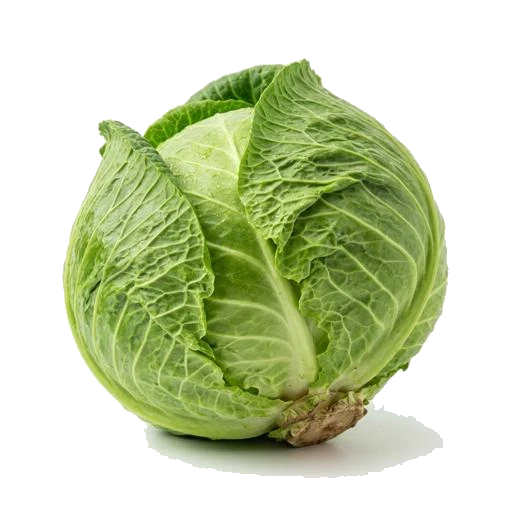
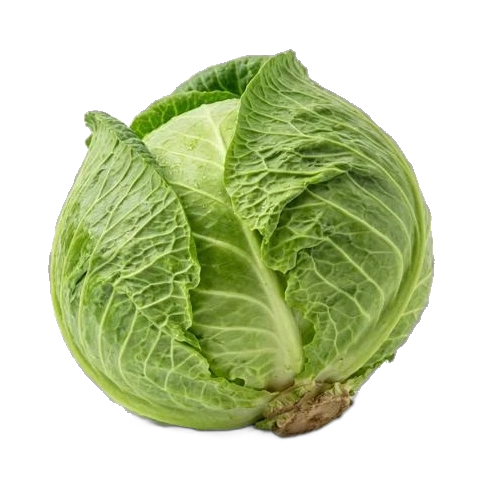
feat: update offerings, menu padding, and product images

Changed region(s): [[0.0932, 0.0915, 0.9006, 0.9451]]

diff --git a/src/pages/OurOfferings.vue b/src/pages/OurOfferings.vue
@@ -318,12 +318,13 @@ import farmGatePattern from "../assets/img/FARMGATE PATTERN _GREEN.webp";
 import okraImg from "../assets/img/okro-new.webp";
 import okra1Img from "../assets/img/ladyfinger-okra.webp";
 import onionImg from "../assets/img/onion.webp";
+import pineappleImg from "../assets/img/pineapple-new.webp";
+import sweetPotatoesImg from "../assets/img/sweet-potatoes.webp";
 import tomatoImg from "../assets/img/tomato.webp";
 import habaneroImg from "../assets/img/habanero-pepper-new.webp";
 import trueHabaneroImg from "../assets/img/true-habanero.webp";
 import chiliImg from "../assets/img/red-chili-pepper-isolated-white-background.webp";
 import gardenEggsImg from "../assets/img/garden-eggs Background Removed.webp";
-import pineappleImg from "../assets/img/pineapple-new.webp";
 import cassavaImg from "../assets/img/cassava-new.webp";
 import tilapiaImg from "../assets/img/tilapia.webp";
 import catfishImg from "../assets/img/catfish.webp";
@@ -333,6 +334,7 @@ import cabbageImg from "../assets/img/cabbage.webp";
 import carrotImg from "../assets/img/carrot-new.webp";
 import cucumberImg from "../assets/img/cucumber.webp";
 import lettuceImg from "../assets/img/lettuce.webp";
+import redLettuceImg from "../assets/img/red-lettuce.webp";
 
 // 1. Search & Filter State
 const searchQuery = ref("");
@@ -424,7 +426,6 @@ const products = ref([
     botanicalName: "Cucumis sativus",
     category: "crop",
     image: cucumberImg,
-    imageClass: "transform scale-110",
     description: "Crisp and fresh cucumbers cultivated using sustainable farming practices, perfect for salads and culinary uses.",
   },
   {
@@ -439,15 +440,34 @@ const products = ref([
     description: "Premium quality carrots grown in nutrient-rich soil, ensuring high vitamin content and excellent taste.",
   },
   {
+    id: "sweet-potatoes",
+    name: "Sweet Potatoes",
+    weight: "20kg/bag",
+    stock: 120,
+    botanicalName: "Ipomoea batatas",
+    category: "crop",
+    image: sweetPotatoesImg,
+    description: "Nutrient-rich, premium quality sweet potatoes cultivated using sustainable farming methods.",
+  },
+  {
     id: "lettuce",
-    name: "Lettuce",
+    name: "Green Lettuce",
     weight: "10kg/crate",
     stock: 100,
     botanicalName: "Lactuca sativa",
     category: "crop",
     image: lettuceImg,
-    imageClass: "transform scale-110",
     description: "Fresh and leafy lettuce harvested at peak crispness for the best culinary experience.",
+  },
+  {
+    id: "red-lettuce",
+    name: "Red Lettuce",
+    weight: "10kg/crate",
+    stock: 100,
+    botanicalName: "Lactuca sativa",
+    category: "crop",
+    image: redLettuceImg,
+    description: "Vibrant and flavorful red lettuce, freshly harvested to add crispness and color to your culinary creations.",
   },
   {
     id: "cabbage",
@@ -457,7 +477,6 @@ const products = ref([
     botanicalName: "Brassica oleracea",
     category: "crop",
     image: cabbageImg,
-    imageClass: "transform scale-110",
     description: "Firm and dense cabbage heads grown with precision farming techniques, supplying local and regional markets.",
   },
   {
@@ -550,6 +569,7 @@ const products = ref([
     botanicalName: "Ananas comosus",
     category: "crop",
     image: pineappleImg,
+    imageClass: "transform scale-125",
     description: "Sweet MD2 and Sugarloaf pineapple plantations optimized for fresh fruit export and local juice processing plants.",
   },
   {

diff --git a/src/components/Header.vue b/src/components/Header.vue
@@ -505,18 +505,18 @@
     <transition name="fade">
       <div
         v-if="isMenuOpen"
-        class="fixed inset-0 w-full h-[100dvh] z-50 text-white bg-[#020f28] bg-cover bg-center bg-fixed"
+        class="fixed inset-0 w-full h-[100dvh] z-50 text-white bg-[#020f28] bg-cover bg-center bg-fixed overflow-y-auto"
         :style="{
           backgroundImage: `url(${patternBg})`,
           backgroundPosition: 'left center',
         }"
       >
         <div
-          class="absolute inset-0 pointer-events-none header-overlay-bg"
+          class="fixed inset-0 pointer-events-none header-overlay-bg"
         ></div>
 
         <div
-          class="relative min-h-[100dvh] flex flex-col lg:flex-row lg:justify-between xl:flex-row xl:justify-between p-8 max-[360px]:p-4 md:p-8 lg:px-10 lg:py-16 xl:p-28 max-w-[1820px] mx-auto h-full space-y-0 xl:space-y-0 lg:gap-10 xl:gap-10 pb-32 max-[360px]:pb-28 overflow-y-auto lg:overflow-y-visible xl:overflow-y-visible menu-container-main"
+          class="relative min-h-[100dvh] flex flex-col lg:flex-row lg:justify-between xl:flex-row xl:justify-between p-8 max-[360px]:p-4 md:p-8 lg:px-10 lg:pt-8 lg:pb-16 xl:px-28 xl:pt-16 xl:pb-28 max-w-[1820px] mx-auto space-y-0 xl:space-y-0 lg:gap-10 xl:gap-10 pb-32 max-[360px]:pb-28 lg:pb-[350px] xl:pb-[350px] menu-container-main"
         >
           <div
             class="relative flex flex-col items-start mb-12 max-[360px]:mb-6 h-auto lg:w-[260px] xl:w-[260px] z-10 lg:absolute lg:left-12 lg:bottom-28 lg:mb-0 xl:absolute xl:left-12 xl:bottom-28 xl:mb-0"
@@ -1054,7 +1054,7 @@
           <button
             type="button"
             @click.prevent="toggleMenu"
-            class="absolute text-3xl max-[360px]:text-2xl cursor-pointer top-6 right-6 max-[360px]:top-4 max-[360px]:right-4 lg:text-5xl hover:text-[#F2CB00]"
+            class="fixed z-50 text-3xl max-[360px]:text-2xl cursor-pointer top-6 right-6 max-[360px]:top-4 max-[360px]:right-4 lg:text-5xl hover:text-[#F2CB00]"
           >
             &times;
           </button>
